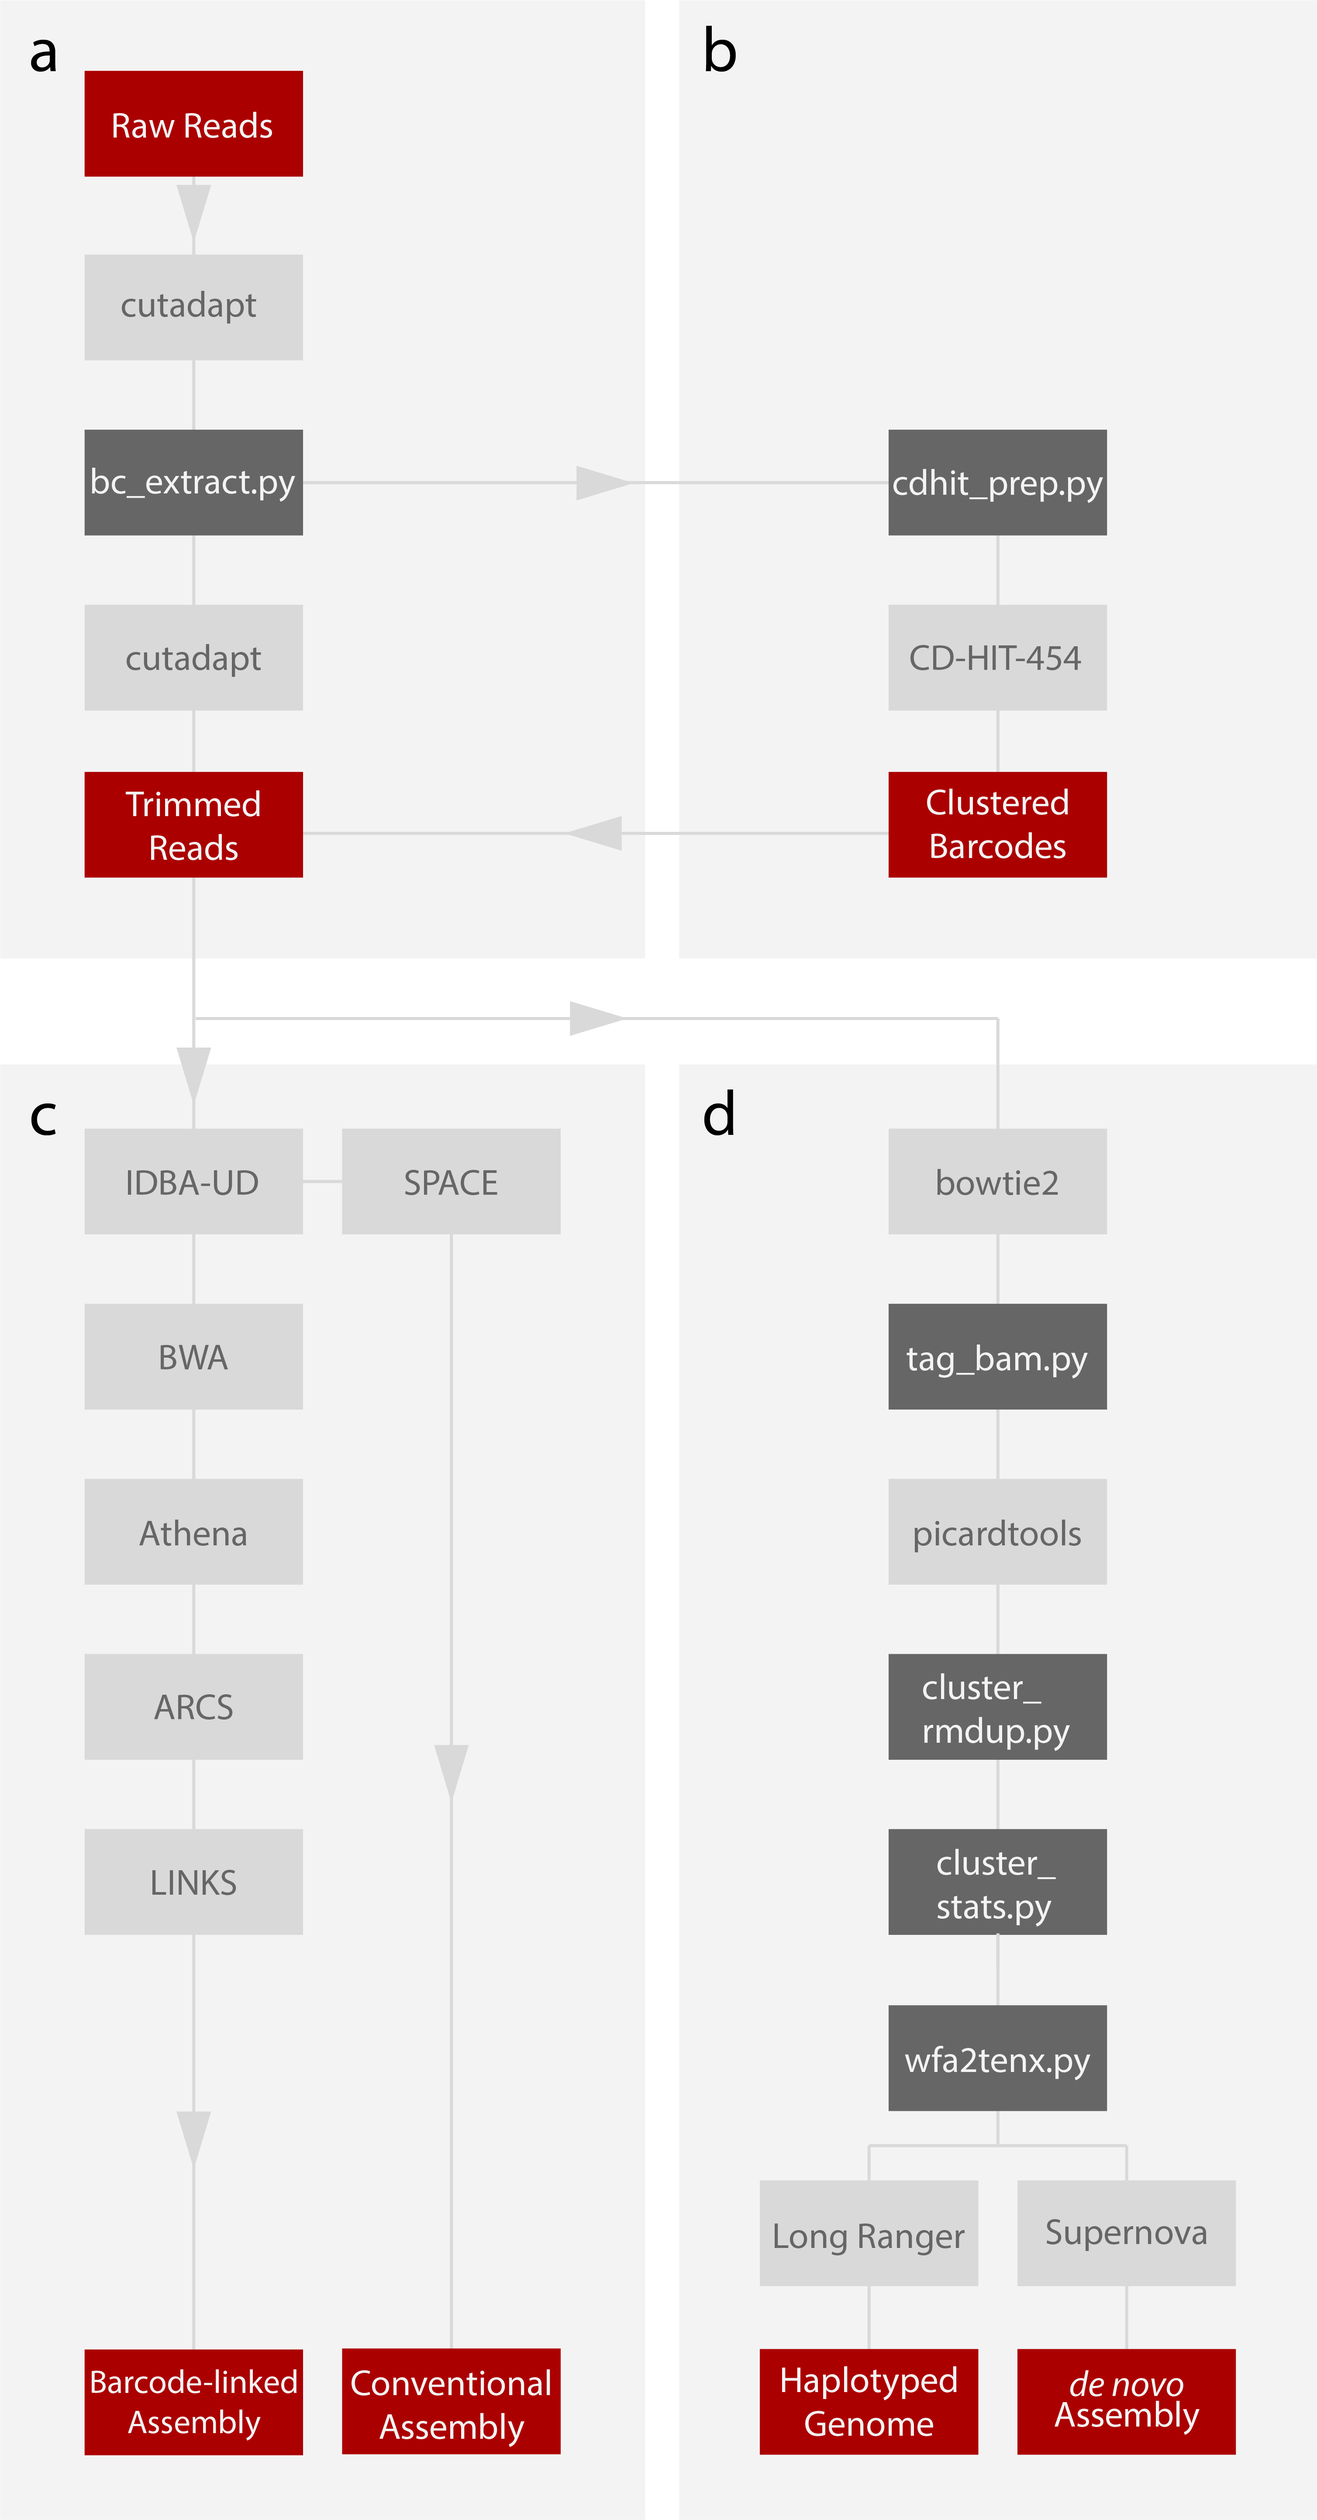
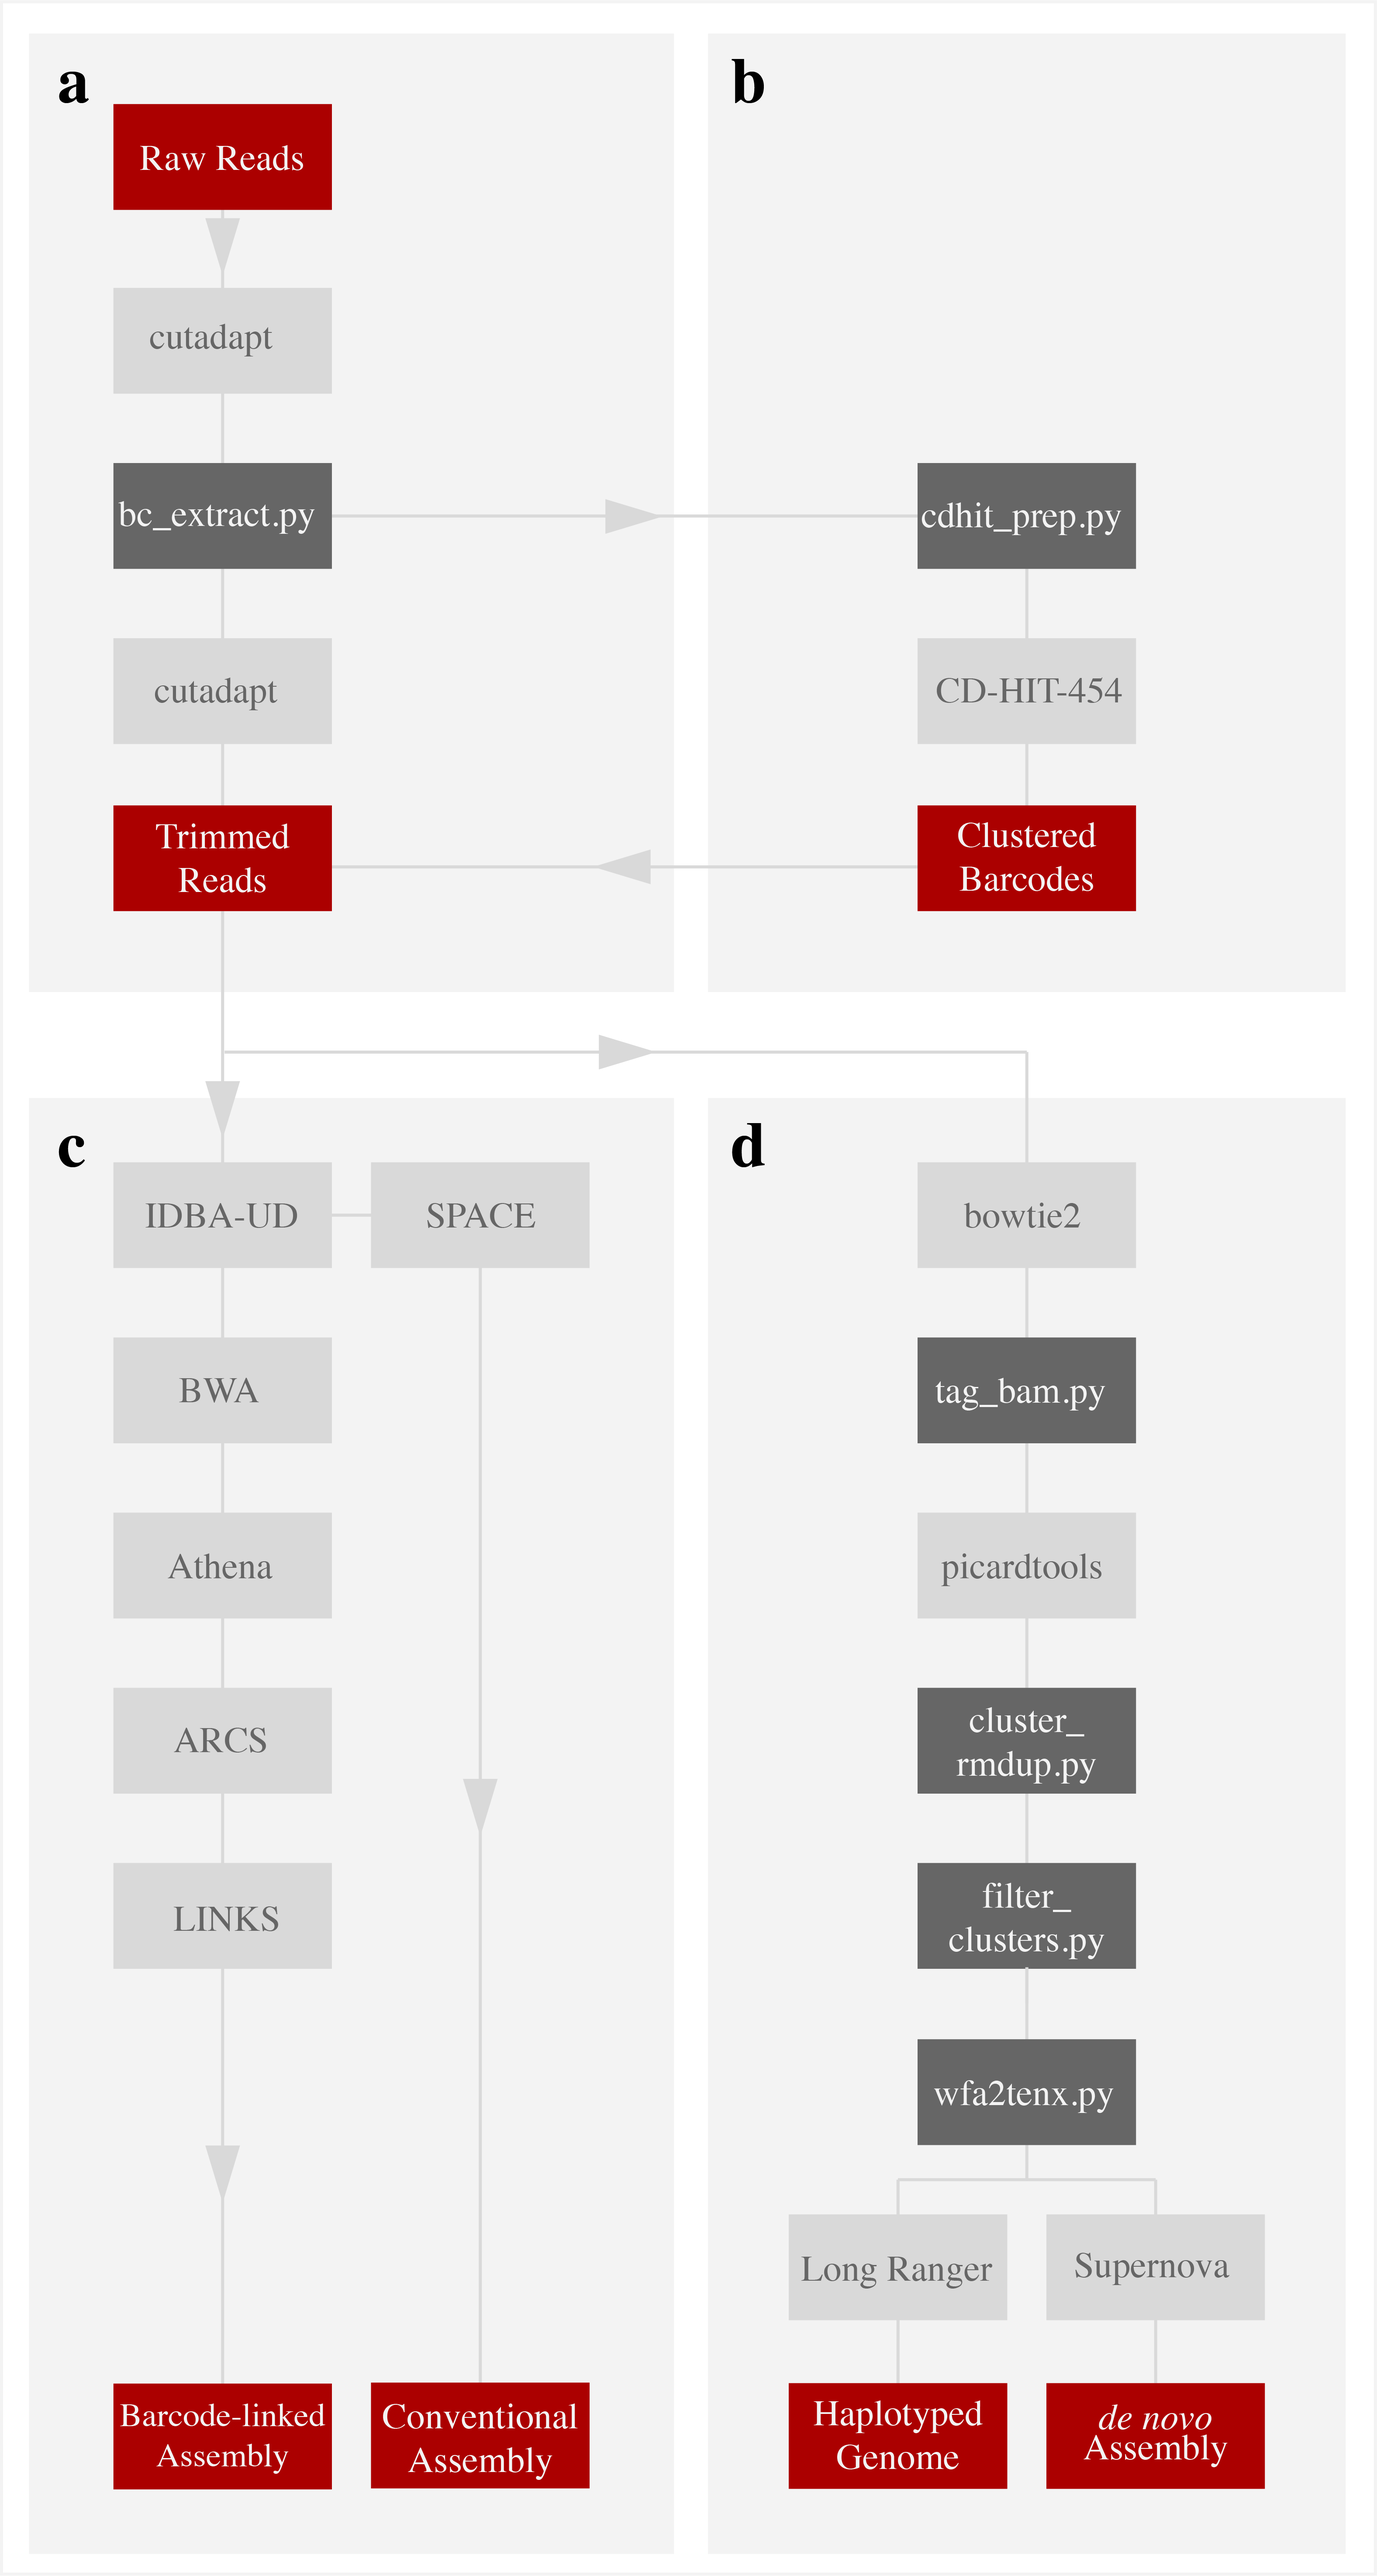
Documentation + picture update

diff --git a/README.md b/README.md
@@ -2,22 +2,22 @@
 
 This GitHub repository describes and distributes all script used in "[Efficient whole genome haplotyping and 
 high-throughput single molecule phasing with barcode-linked reads]()", see [figure 1](https://github.com/FrickTobias/WGH_Analysis/blob/master/README.md#overview) 
-for overview. This GitHub is used for preprocessing of read data and takes raw fastq files as input and outputs 
+for overview. This GitHub is used for pre-processing of read data and takes raw fastq files as input and outputs 
 either (1) fastq files for metagenomic _de novo_ analysis, (2) fastq files for Human Genome haplotyping or (3) 
 bam files ready custom variant calling and phasing analysis. 
 
-To run analyse (1) output and get metagenomic assemblies look at [WGH metagenomics](https://github.com/jennifertheland/WGH_metagenomics).
-Processing of (2) for Human Genome Haplotyping or reference-free assemnbly please conside the [wfa2tenx](https://github.com/remiolsen/wfa2tenx)
+To run subsequent analysis to the (1) output and get metagenomic assemblies look at [WGH metagenomics](https://github.com/jennifertheland/WGH_metagenomics).
+Processing from (2) for for Human Genome Haplotyping or human reference-free assembly please consider the [wfa2tenx](https://github.com/remiolsen/wfa2tenx)
 GitHub.
 
 ## Dependencies
 
-Here follows a list with links to all bioinformatical softwares needed to use of this part of the pipeline.
+Here follows a list with links to all bioinformats software needed to use of this part of the pipeline.
 
-  - [cutadapt](https://github.com/marcelm/cutadapt.git)
-  - [cd-hit-454](https://github.com/weizhongli/cdhit.git)
-  - [bowtie2](https://github.com/BenLangmead/bowtie2)
-  - [samtools](https://github.com/samtools/samtools)
+  - [Cutadapt](https://github.com/marcelm/cutadapt.git)
+  - [CD-HIT-454](https://github.com/weizhongli/cdhit.git)
+  - [Bowtie2](https://github.com/BenLangmead/bowtie2)
+  - [Samtools](https://github.com/samtools/samtools)
   
 It will also be required to have downloaded [Picard Tools](https://github.com/broadinstitute/picard) and a Bowtie2 
 reference genome (e.g. GRCh38), available at e.g. [Illumina iGenomes](https://support.illumina.com/sequencing/sequencing_software/igenome.html). 
@@ -35,7 +35,7 @@ git clone https://github.com/FrickTobias/WGH_Analysis.git
 ```
 
 Then provide WGH_Analysis with the appropriate paths for Picard Tools and your Bowtie2 reference data (consult 
-[example folder](https://github.com/FrickTobias/WGH_Analysis/tree/master/example) details). 
+[example folder](https://github.com/FrickTobias/WGH_Analysis/tree/master/example) for further details).
 
 ```
 bash setpath.sh </path/to/picardtools> </path/to/bowtie2_reference>
@@ -43,22 +43,22 @@ bash setpath.sh </path/to/picardtools> </path/to/bowtie2_reference>
 
 ## Useage
 
-For all available options, see -h (--help) and for more details consult the [step-by-step](https://github.com/FrickTobias/WGH_Analysis/tree/master/step-by-step) 
+For all available options, see -h (--help) and for more consult the [step-by-step](https://github.com/FrickTobias/WGH_Analysis/tree/master/step-by-step) 
 folder which describes all steps performed by WGH_automation. For examples and analysis file contents, see the [example folder](https://github.com/FrickTobias/WGH_Analysis/tree/master/example) 
-where an example run is thouroughly described.
+where different example runs are thouroughly described.
 
 ### (1) _de novo_ Metagenomics
 
-First trim read sequences and extract barcode sequences with WGH_automation using the -e 1 option.
+First trim read sequences and extract barcode sequences with WGH_automation using the -e (--end) 1 option.
 
 ```
-bash WGH_automation.sh -r -m <john.doe@myworkplace.com -p <processors> <read_1.fq> <read_2.fq> <output> 
+bash WGH_automation.sh -e 1 -r -m <john.doe@myworkplace.com -p <processors> <read_1.fq> <read_2.fq> <output> 
 ```
 
-Now cluster barcode sequences with the -s 3 -e 3 options.
+Now cluster barcode sequences with the -s (--start) 3 -e (--end) 3 options.
 
 ```
-bash WGH_automation.sh -r -m <john.doe@myworkplace.com -p <processors> <read_1.fq> <read_2.fq> <output> 
+bash WGH_automation.sh -s 3 -e 3 -r -m <john.doe@myworkplace.com -p <processors> <read_1.fq> <read_2.fq> <output> 
 ```
 
 Following this, run athena_assembly.sh provided through the [WGH metagenomics](https://github.com/jennifertheland/WGH_metagenomics) 
@@ -66,10 +66,10 @@ GitHub repository.
 
 ### (2) Human Haplotyping and Assembly
 
-Start by running the complete preprocessing pipeline with the fastq generation option.
+Start by running the complete pre-processing pipeline with the fastq generation option -f (--fastq).
 
 ```
-bash WGH_automation.sh -r -m <john.doe@myworkplace.com -p <processors> <read_1.fq> <read_2.fq> <output> 
+bash WGH_automation.sh -f -r -m <john.doe@myworkplace.com -p <processors> <read_1.fq> <read_2.fq> <output> 
 ```
 
 Continue by converting filtered fastq files to Long Ranger/Supernova input format using [wfa2tenx](https://github.com/remiolsen/wfa2tenx)

diff --git a/step-by-step/README.md b/step-by-step/README.md
@@ -15,7 +15,7 @@ h2 = TES = CTGTCTCTTATACACATCT
 ```
 
 ```
-# Trim handle 1
+# Trim handle 1 and discard untrimmed read pairs
 cutadapt -g ^CAGTTGATCATCAGCAGGTAATCTGG \
     <read_1.fq> \
     <read_2.fq> \
@@ -33,7 +33,7 @@ python3 bc_extract.py \
     <read_1.h1.bc.fq> \
     <read_2.h1.bc.fq>
  
-# Trim handle 2 
+# Trim handle 2 and discard untrimmed read pairs
 cutadapt -g AGATGTGTATAAGAGACAG \
     <read_1.h1.bc.fq> \    
     <read_2.h1.bc.fq> \
@@ -44,7 +44,7 @@ cutadapt -g AGATGTGTATAAGAGACAG \
     -g 0.2 \
     -m 65
     
-# Trim handle 2:s reverse complement from 3' end (in both reads)  
+# Trim handle 2:s reverse complement from 3' end in both reads  
 cutadapt -a CTGTCTCTTATACACATCT -A CTGTCTCTTATACACATCT \
     <read_1.h1.bc.h2.fq> \    
     <read_2.h1.bc.h2.fq> \
@@ -57,8 +57,7 @@ cutadapt -a CTGTCTCTTATACACATCT -A CTGTCTCTTATACACATCT \
 
 ### Mapping & Filtering
 
-Here reads are mapped to the human genome. The mapping results are then filtered to remove unmapped reads and
-non-primary alignements.
+Here reads are mapped to the human genome and converted from sam to bam format.
 
 ```
 # Mapping reads and writing as bam
@@ -73,29 +72,22 @@ bowtie2 \
         -@ <processors>
         -bh > <mapped.bam>
    
-# Sorting file (necessary for downstream analysis)
+# Sorting file (necessary for downstream analysis, will also reduce memory needed)
 samtools sort \
     <mapped.bam> > <mapped.sort.bam>
-    
-# Filtering for unmapped reads (0x04) and non-primary alignments (0xs100)
-samtools view \
-    <mapped.sort.bam> \
-    -bh \
-    -F 0x04 \
-    -F 0x100 > <mapped.sort.filt.bam> 
-    
+        
 ```
 
 ### Clustering
 
 The clustering is done in three steps; preparation, clustering and tagging. The preparation steps takes trimmed reads
-and writes .fasta files containing only unique barcode sequences which then are clustered by CD-HIT-454. Lastly the
-clustered barcodes are used are used to tag the .bam file with reads where they are given a cluster ID (a number) 
-alongside their barcode sequence in the header as well as a RG tag with the barcode ID.
+and writes fasta files containing only unique barcode sequences which are individually clustered by CD-HIT-454. Lastly 
+the clustered barcodes are used are used to tag the .bam file with reads where they are given a cluster ID (an integer) 
+alongside their barcode sequence in the header as well as a BC tag with the barcode ID.
 
-In order to cluster a vast amount of unique barcodes sequences (>100M) the barcode sequences are divided into several 
-files according on its first nucleotides. These are used as an index and these files are clustered separately and this
-can be reglated in the preparation step (cdhit_prep.py, -r option).
+In order to cluster a vast amount of unique barcodes sequences (>100M), barcode sequences are divided into several 
+files according on its first nucleotides. This can be regulated by using the cdhit_prep.py -r (--reduce) option or
+in the -i (--indexing_nucleotides) option in the automation script.
 
 ```
 # Preparation, using 3 indexing nucleotides
@@ -134,8 +126,11 @@ python3 tag_bam.py \
 
 Now the file is ready for removing read duplicates and cluster dupilcates. First read duplicates are removed (not if 
 they have different barcodes) followed by marking remaining duplicates (not taking barcode into account), yielding a 
-file with only cluster duplicates marked. The clusters marked as duplicates are then merged if two phased read pairs 
-within phasing distance and they both share the same barcodes.
+file with only read duplicates with different barcodes marked. These reads are then used to find pairs of phased reads
+within the same clusters which have another pair of phased reads at the same position with another barcode (pairs of 
+phased reads are defined as two proximal read pairs). If this is
+identified this is interpreted as the barcodes either originating from the same emulsion or not being missed in the 
+clustering step.
 
 ```
 # Removing duplicates, keeping reads if they have different barcodes

diff --git a/example/README.md b/example/README.md
@@ -41,7 +41,7 @@ bash WGH_automation.sh -i 4 testdata_read1.fastq.gz testdata_read2.fastq.gz test
 Command:
 
 ```
-bash WGH_automation.sh -r -m john.doe@myworkplace.com -p 24 testdata_read1.fastq.gz testdata_read2.fastq.gz testdata_analysis
+bash WGH_automation.sh -f -r -m john.doe@myworkplace.com -p 24 testdata_read1.fastq.gz testdata_read2.fastq.gz testdata_analysis
 ```
 
 Output:
